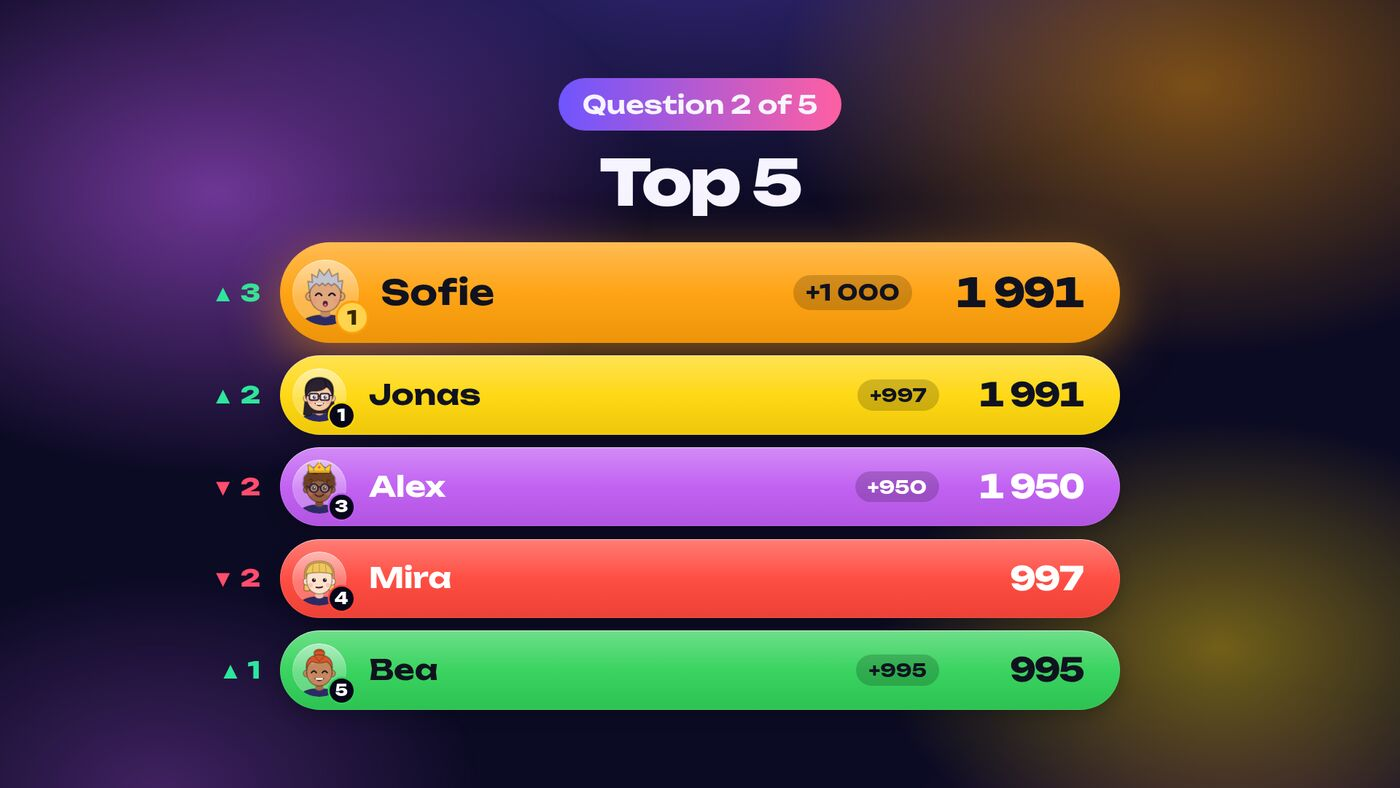
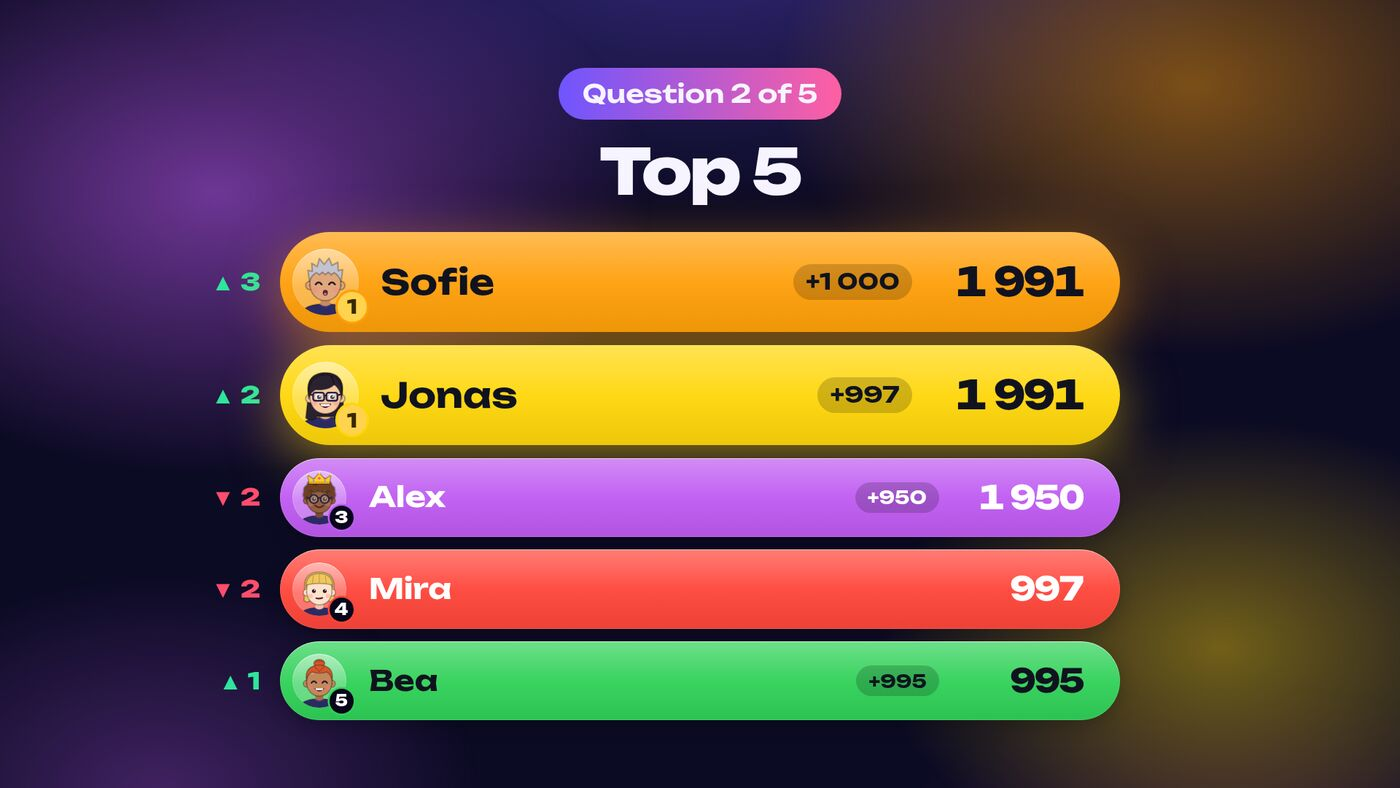
Top 5: every player in first place gets the big row, so ties look fair

Changed region(s): [[0.1536, 0.0609, 0.8293, 0.9137]]

diff --git a/public/style.css b/public/style.css
@@ -4955,7 +4955,7 @@ body[data-rankanim='move'] .top-list li {
   font-size: 3.6vh;
   line-height: 1;
 }
-.top-list li:first-child .rank-plate {
+.top-list li.lead .rank-plate {
   font-size: 4.4vh;
   padding-block: 2.2vh;
   box-shadow: 0 2vh 7vh color-mix(in srgb, var(--team) 50%, transparent);
@@ -5728,7 +5728,7 @@ body.logo-corner .tv-stage {
   color: #fff;
   box-shadow: 0 0 0 0.12em var(--team);
 }
-.top-list li:first-child .rank-face .rank-n {
+.top-list li.lead .rank-face .rank-n {
   background: #ffd34d;
   color: #3a2a00;
 }

diff --git a/public/js/display.js b/public/js/display.js
@@ -538,7 +538,7 @@ function rankRow(e, i, was = e) {
   const arrow = e.move === 'up' ? `▲ ${e.places}` : e.move === 'down' ? `▼ ${e.places}` : e.move === 'new' ? '★' : '–';
   return h(
     'li',
-    { 'data-id': e.id, style: `${teamStyle(e)}; --i: ${i}` },
+    { 'data-id': e.id, class: was.rank === 1 ? 'lead' : null, style: `${teamStyle(e)}; --i: ${i}` }, // everyone in 1st place (ties too) is big
     h('span', { class: `move ${e.move ?? 'same'}` }, arrow),
     h(
       'span',

diff --git a/public/js/rankanim.js b/public/js/rankanim.js
@@ -119,6 +119,7 @@ export function animateRanks(ol, before, after, { swap = () => {}, reduced = red
       const li = row(e.id);
       if (!li) continue;
       li.querySelector('.rank-n').textContent = String(e.rank);
+      li.classList.toggle('lead', e.rank === 1);
       li.querySelector('.rank-score').textContent = pts(e.score);
       li.classList.remove('waiting');
       ol.append(li);
